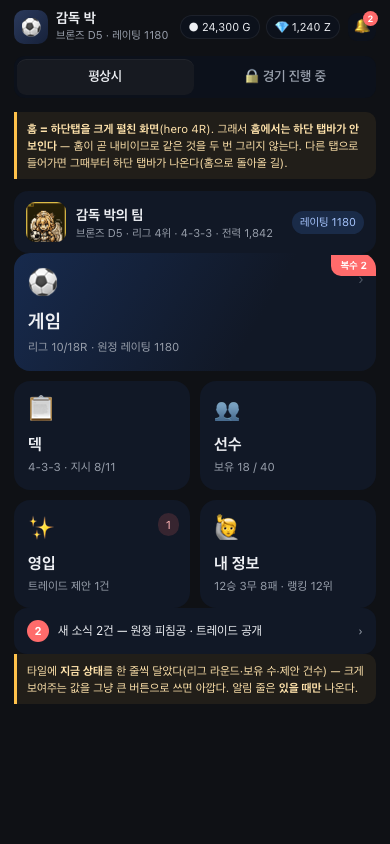
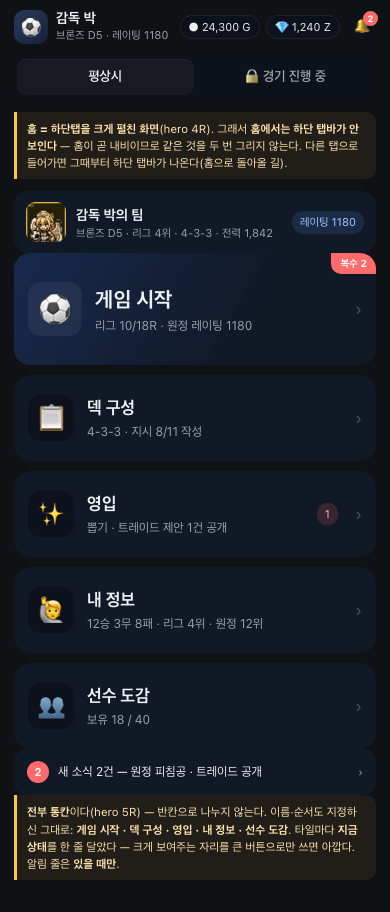
[Spider] docs(web): #286 W1 5차 — 홈 타일 전부 통칸 + 명칭·순서 hero 지정대로
hero 5차: "게임처럼 다 굵게 보여주자(반칸 나누지말라는말). 게임시작, 덱구성, 영입, 내 정보,
선수 도감으로가자"

- 2열 반칸 그리드 제거 → **전부 통칸** 5개.
- 이름·순서 지정 그대로: **게임 시작 · 덱 구성 · 영입 · 내 정보 · 선수 도감**.
- [게임 시작]만 더 크고 색을 유지(홈의 주인공). 나머지 4개는 회색 명도만 — #244 색 규칙
  (의미 있는 색 4개)을 깨지 않는다.
- 타일 부제로 지금 상태 유지(리그 10/18R · 지시 8/11 · 제안 1건 · 12승 3무 8패 · 보유 18/40).

⚠ 문서에 짝을 박았다 — **홈 타일은 풀 네임, 하단 탭바는 축약**(홈·게임·덱·선수·영입·내 정보).
6칸에 "선수 도감"·"덱 구성"은 들어가지 않는다. 탭 라벨까지 통일하려면 별도 결정이 필요하다.

게이트: apps/web build PASS. 제품 코드 무변경.

Claude-Session: https://claude.ai/code/session_01YPxJHEMs28AV5xFHckaE2s

diff --git a/docs/plan-v5/mock/home-nav/after.html b/docs/plan-v5/mock/home-nav/after.html
@@ -158,18 +158,21 @@ table.tbl td.num{text-align:right;font-variant-numeric:tabular-nums}
 .teamrow .tinfo b{display:block;font-size:14px}
 .teamrow .tinfo span{display:block;font-size:11px;color:var(--muted)}
 
-.tiles{display:grid;grid-template-columns:1fr 1fr;gap:10px}
-.tile{position:relative;overflow:hidden;background:var(--surface);border-radius:16px;padding:14px;text-align:left;min-height:104px;display:flex;flex-direction:column;justify-content:space-between}
-.tile em{font-size:26px;font-style:normal;line-height:1}
-.tile b{display:block;font-size:16px;margin-top:8px}
-.tile span{display:block;font-size:11.5px;color:var(--muted);margin-top:2px}
-.tile .go{position:absolute;right:12px;top:12px;color:#4b5462;font-size:15px}
-.tile:not(.wide) .go{display:none}
-/* 게임 = 홈의 주인공. 2칸 폭 + 색을 준다(나머지는 회색 명도만 — #244 색 규칙). */
-.tile.wide{grid-column:1 / -1;min-height:118px;background:linear-gradient(120deg,#172a4d,#111826 66%)}
-.tile.wide em{font-size:30px}
-.tile.wide b{font-size:19px}
-.tile .badge{position:absolute;right:11px;top:11px}
+/* 전부 **통칸**이다(hero 5R: "반칸 나누지 말라"). 2열 그리드 없음. */
+.tiles{display:grid;grid-template-columns:1fr;gap:10px}
+.tile{position:relative;overflow:hidden;background:var(--surface);border-radius:16px;padding:15px 14px;
+  text-align:left;min-height:86px;display:flex;align-items:center;gap:13px}
+.tile em{font-size:27px;font-style:normal;line-height:1;width:46px;height:46px;border-radius:13px;
+  background:var(--sunk);display:grid;place-items:center;flex:0 0 auto}
+.tile .tt{flex:1;min-width:0}
+.tile b{display:block;font-size:17px}
+.tile span.sub{display:block;font-size:12px;color:var(--muted);margin-top:2px}
+.tile .go{color:#4b5462;font-size:17px;flex:0 0 auto}
+/* 게임 = 홈의 주인공. 더 크고 색을 준다(나머지는 회색 명도만 — #244 색 규칙). */
+.tile.wide{min-height:112px;background:linear-gradient(120deg,#172a4d,#111826 66%)}
+.tile.wide em{font-size:32px;width:54px;height:54px;background:rgba(255,255,255,.06)}
+.tile.wide b{font-size:21px}
+.tile .badge{position:absolute;right:38px;top:50%;transform:translateY(-50%)}
 .tile .rib{position:absolute;top:0;right:0;background:var(--them);color:#fff;font-size:10px;font-weight:700;padding:3px 9px;border-bottom-left-radius:10px}
 
 /* ── 홈 히어로 (미사용 — 3차안 잔재, 참고용) ──────────────────────────── */
@@ -300,28 +303,33 @@ body.nonotes .note{display:none}
       <div class="tiles">
         <button class="tile wide" onclick="go('game')">
           <span class="rib">복수 2</span>
-          <div><em>⚽</em><b>게임</b><span>리그 10/18R · 원정 레이팅 1180</span></div>
+          <em>⚽</em>
+          <div class="tt"><b>게임 시작</b><span class="sub">리그 10/18R · 원정 레이팅 1180</span></div>
           <span class="go">›</span>
         </button>
 
         <button class="tile" onclick="go('deck')">
-          <div><em>📋</em><b>덱</b><span>4-3-3 · 지시 8/11</span></div>
-          <span class="go">›</span>
-        </button>
-
-        <button class="tile" onclick="go('players')">
-          <div><em>👥</em><b>선수</b><span>보유 18 / 40</span></div>
+          <em>📋</em>
+          <div class="tt"><b>덱 구성</b><span class="sub">4-3-3 · 지시 8/11 작성</span></div>
           <span class="go">›</span>
         </button>
 
         <button class="tile" onclick="go('recruit')">
-          <div><em>✨</em><b>영입</b><span>트레이드 제안 1건</span></div>
-          <span class="go">›</span>
+          <em>✨</em>
+          <div class="tt"><b>영입</b><span class="sub">뽑기 · 트레이드 제안 1건 공개</span></div>
           <span class="badge them">1</span>
+          <span class="go">›</span>
         </button>
 
         <button class="tile" onclick="go('me')">
-          <div><em>🙋</em><b>내 정보</b><span>12승 3무 8패 · 랭킹 12위</span></div>
+          <em>🙋</em>
+          <div class="tt"><b>내 정보</b><span class="sub">12승 3무 8패 · 리그 4위 · 원정 12위</span></div>
+          <span class="go">›</span>
+        </button>
+
+        <button class="tile" onclick="go('players')">
+          <em>👥</em>
+          <div class="tt"><b>선수 도감</b><span class="sub">보유 18 / 40</span></div>
           <span class="go">›</span>
         </button>
       </div>
@@ -331,8 +339,9 @@ body.nonotes .note{display:none}
         <span class="sm" style="flex:1">새 소식 2건 — 원정 피침공 · 트레이드 공개</span>
         <span class="tiny muted">›</span>
       </button>
-      <div class="note tiny">타일에 <b>지금 상태</b>를 한 줄씩 달았다(리그 라운드·보유 수·제안 건수) — 크게 보여주는 값을 그냥 큰 버튼으로 쓰면 아깝다.
-        알림 줄은 <b>있을 때만</b> 나온다.</div>
+      <div class="note tiny"><b>전부 통칸</b>이다(hero 5R) — 반칸으로 나누지 않는다. 이름·순서도 지정하신 그대로:
+        <b>게임 시작 · 덱 구성 · 영입 · 내 정보 · 선수 도감</b>.
+        타일마다 <b>지금 상태</b>를 한 줄 달았다 — 크게 보여주는 자리를 큰 버튼으로만 쓰면 아깝다. 알림 줄은 <b>있을 때만</b>.</div>
     </div>
   </div>
 </section>
